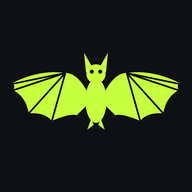
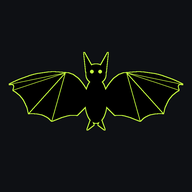
Operación Batman: icono de murciélago negro con borde fino verde
Claude-Session: https://claude.ai/code/session_0136anGwXVA4PohtLM3ELyZh

Changed region(s): [[0.0312, 0.25, 0.9688, 0.6875]]

diff --git a/focus/sw.js b/focus/sw.js
@@ -1,5 +1,5 @@
 // Service worker de Focus: la app abre aunque no haya conexión; los datos siempre van a la red.
-const CACHE = 'focus-v7';
+const CACHE = 'focus-v8';
 const ASSETS = ['./', './index.html', './manifest.json', './icon-180.png', './icon-192.png', './icon-512.png'];
 self.addEventListener('install', e => {
   e.waitUntil(caches.open(CACHE).then(c => c.addAll(ASSETS)).then(() => self.skipWaiting()));
